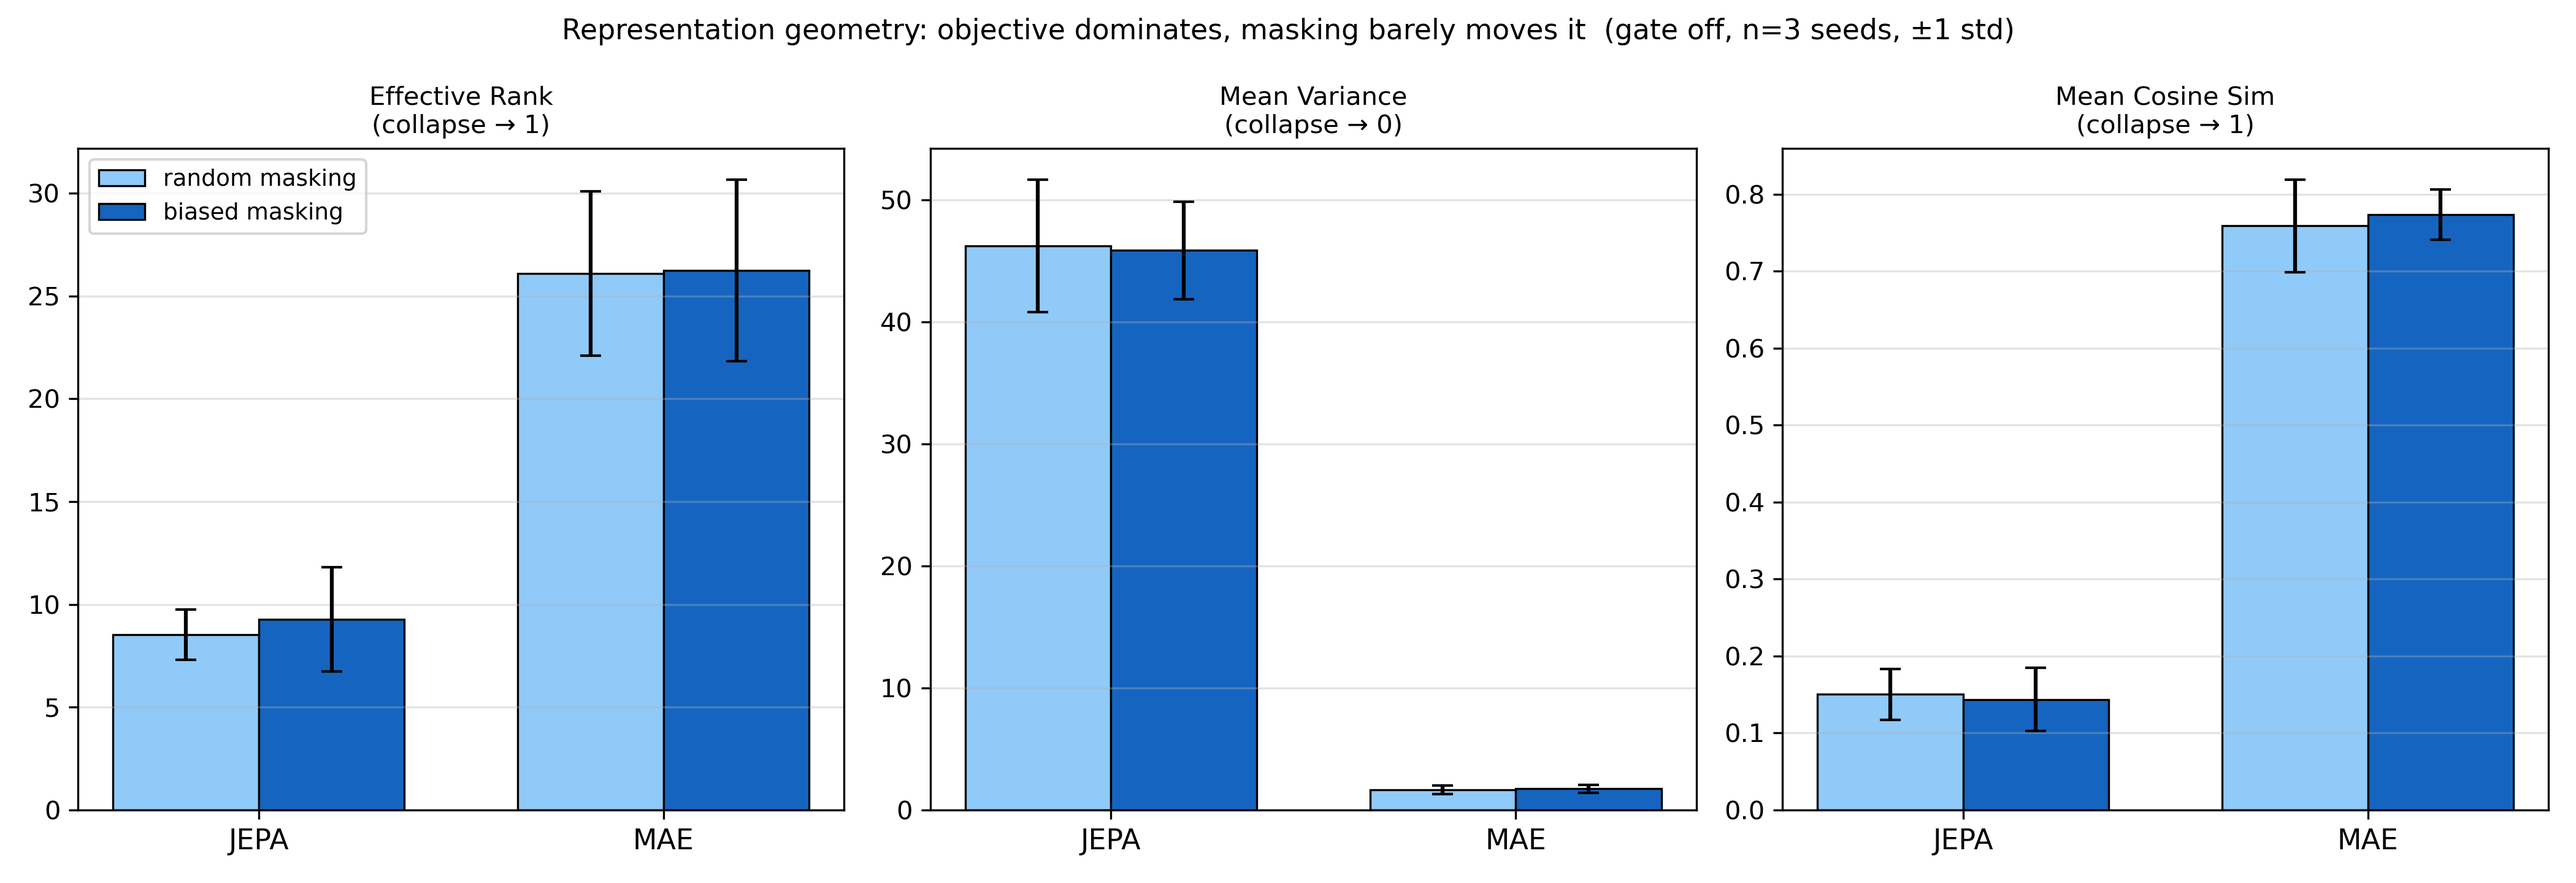
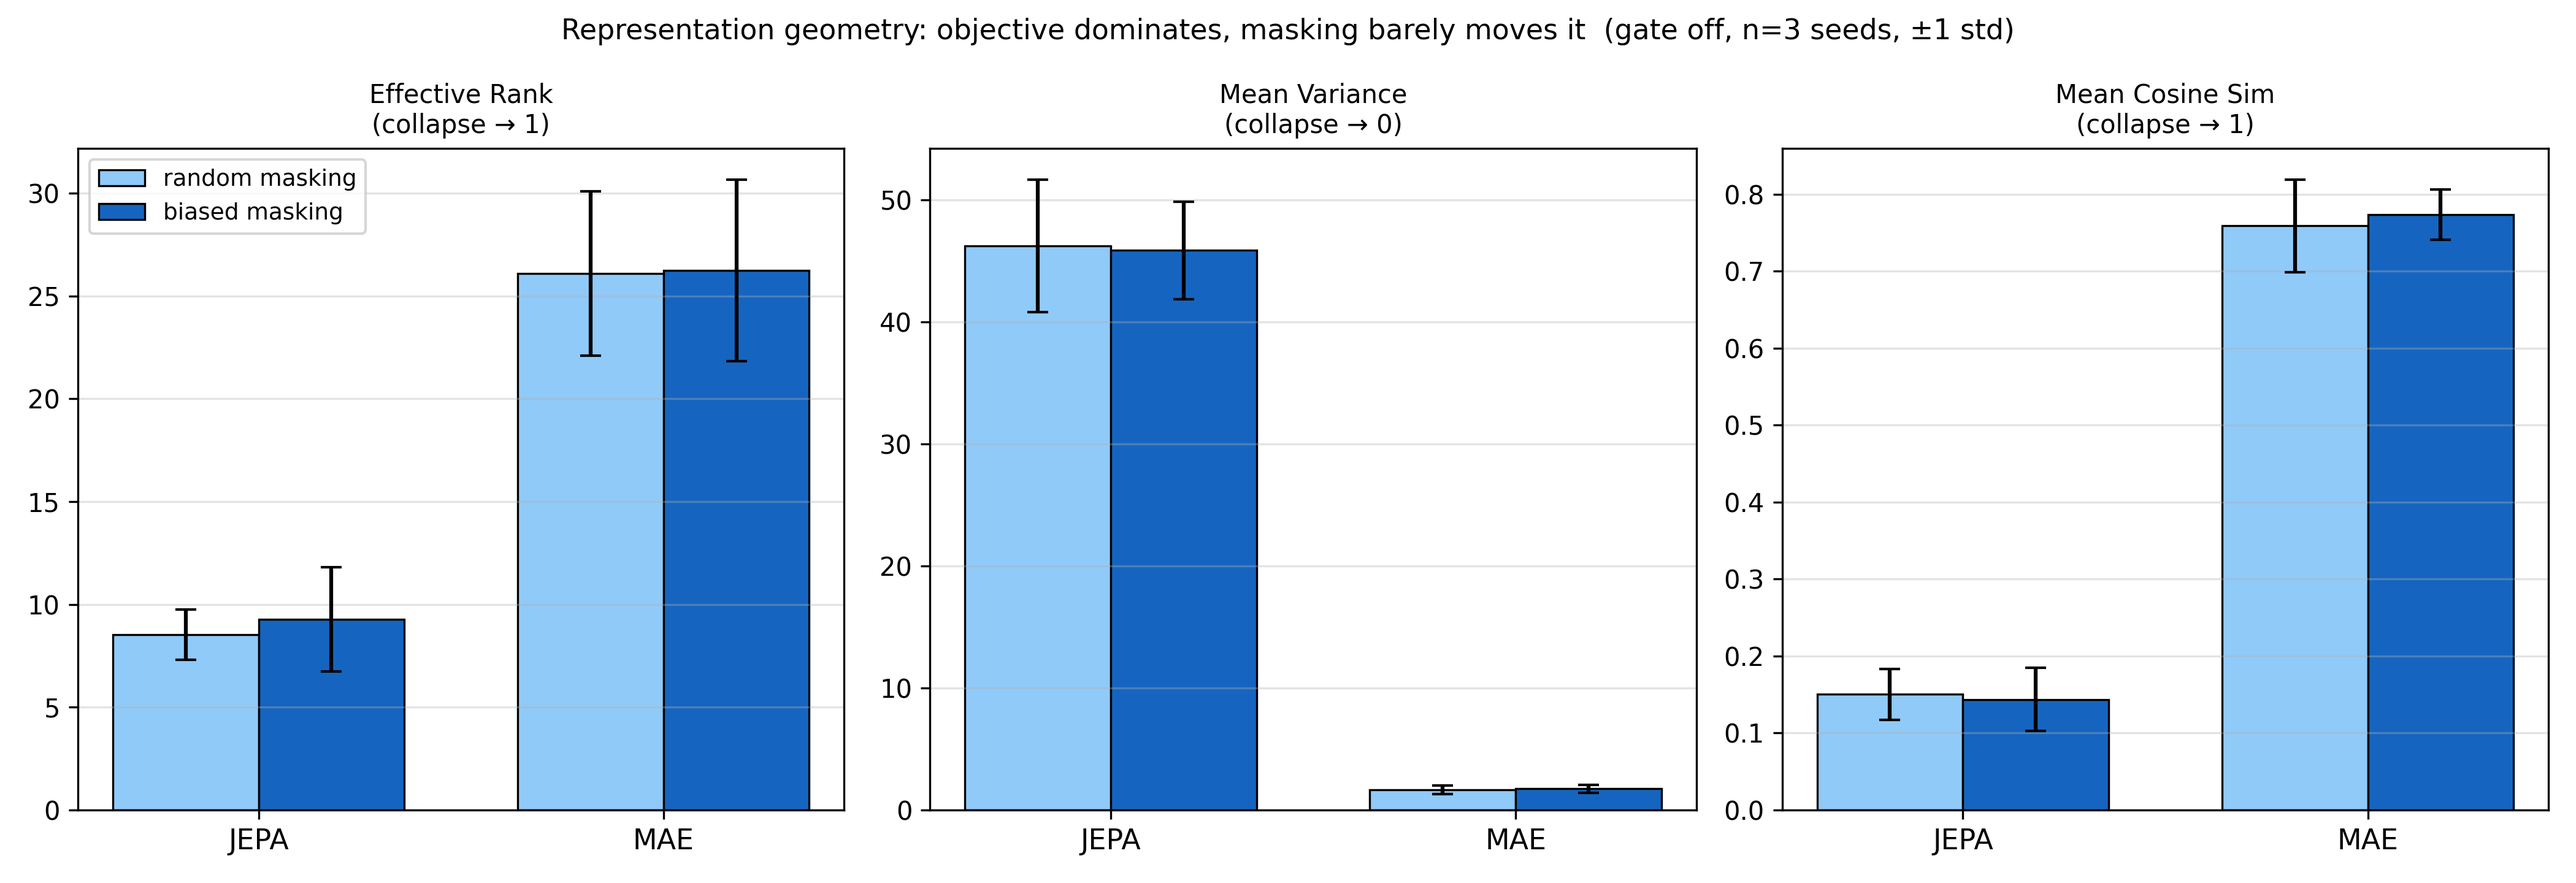
fix walltime comparison script

diff --git a/experiments/phase2/plot_walltime.py b/experiments/phase2/plot_walltime.py
@@ -25,7 +25,13 @@ Pretrain time comes from the seed JSONs (pretrain_time_s); finetune wall-clock
 comes from the finetune CSVs in logs/, so run this ON THE CLUSTER.
 
     python experiments/phase2/plot_walltime.py \\
-        --results-dir experiments/phase2/results --tag 1m --seeds 42 123 456
+        --results-dir experiments/phase2/results --tag 1m --seeds 42 123 456 \\
+        --jepa-encoder best      # charge JEPA only to its best-val epoch (~1h), not the full 4h
+
+--jepa-encoder final (default) charges JEPA the full pretrain and uses the final
+encoder's finetune; --jepa-encoder best uses the best-val encoder (pretrain timed
+to the val-loss minimum + --jepa-patience epochs, finetune = *_bestft_*). Output
+is walltime_convergence.png / walltime_convergence_bestval.png respectively.
 """
 
 import argparse
@@ -39,13 +45,46 @@ matplotlib.use('Agg')
 import matplotlib.pyplot as plt
 import numpy as np
 
-# (label, JSON condition key, finetune-CSV stem, colour). scratch's CSV has no
-# '_ft_' tag — matches run_phase2's naming.
-METHODS = [
-    ('JEPA',    'jepa_finetune', 'jepa_{tag}_ft_seed{s}',  '#1f77b4'),
+# Base (label, JSON condition key, finetune-CSV stem, colour) for MAE/scratch.
+# The JEPA row is built in main() so --jepa-encoder can switch it between the
+# final encoder and the (cheaper, ~equal-accuracy) best-val encoder.
+BASE_METHODS = [
     ('MAE',     'mae_finetune',  'mae_{tag}_ft_seed{s}',   '#2ca02c'),
     ('Scratch', 'scratch',       'scratch_{tag}_seed{s}',  '#ff7f0e'),
 ]
+
+
+def bestval_pretrain_seconds(pretrain_csv, patience):
+    """Elapsed_total_s at the val-loss minimum + `patience` epochs — the honest
+    stopping point for taking the best-val encoder (you must train a little past
+    the minimum to confirm it). JEPA pretrain CSV cols:
+    epoch,emb_loss,val_loss,lr,ema,epoch_t,elapsed,best."""
+    if not os.path.exists(pretrain_csv):
+        return None
+    rows = []
+    with open(pretrain_csv) as f:
+        for r in csv.reader(f):
+            try:
+                rows.append((int(float(r[0])), float(r[2]), float(r[6])))  # epoch, val_loss, elapsed
+            except (ValueError, IndexError):
+                continue
+    if not rows:
+        return None
+    best_ep = min(rows, key=lambda t: t[1])[0]
+    cand = [e for e in rows if e[0] >= best_ep + patience]
+    return (cand[0][2] if cand else rows[-1][2])
+
+
+def bestft_auc(diag_dir, seed):
+    """Best-val finetune OVO AUC from diag_bestft (roc_auc_ovo); None if absent."""
+    for name in (f'seed{seed}.json', f'seed_{seed}.json'):
+        p = os.path.join(diag_dir, name)
+        if os.path.exists(p):
+            try:
+                return float(json.load(open(p)).get('roc_auc_ovo'))
+            except Exception:
+                return None
+    return None
 
 
 def read_ft_csv(path):
@@ -83,9 +122,26 @@ def main():
     p.add_argument('--seeds',       nargs='+', type=int, default=[42, 123, 456])
     p.add_argument('--tag',         default='1m')
     p.add_argument('--output-dir',  default=None, help='defaults to --results-dir')
+    p.add_argument('--jepa-encoder', choices=['final', 'best'], default='final',
+                   help="'final': full-schedule encoder (pretrain = full run). "
+                        "'best': best-val encoder (pretrain charged only to the val-loss "
+                        "minimum + patience) — ~equal accuracy, far cheaper.")
+    p.add_argument('--jepa-pretrain-dir', default='./logs/ParticleJEPA/logging',
+                   help="JEPA pretrain CSVs (to time the best-val epoch).")
+    p.add_argument('--jepa-patience', type=int, default=5,
+                   help="epochs past the val-loss minimum to charge as pretrain "
+                        "for --jepa-encoder best (honest deployable stop).")
+    p.add_argument('--jepa-bestft-json', default='./experiments/phase2/diag_bestft',
+                   help="dir with best-val finetune JSONs (roc_auc_ovo) for the AUC label.")
     args = p.parse_args()
     out = args.output_dir or args.results_dir
     os.makedirs(out, exist_ok=True)
+
+    # JEPA row depends on the chosen encoder; best-val uses the *_bestft_* finetune.
+    jbest  = args.jepa_encoder == 'best'
+    jlabel = 'JEPA (best-val)' if jbest else 'JEPA'
+    jstem  = 'jepa_{tag}_bestft_seed{s}' if jbest else 'jepa_{tag}_ft_seed{s}'
+    METHODS = [(jlabel, 'jepa_finetune', jstem, '#1f77b4')] + BASE_METHODS
 
     agg = {m[0]: {'pre': [], 'ft': [], 'auc': []} for m in METHODS}
     ft_curves    = defaultdict(list)   # label -> [(finetune_hours, val_metric), ...]
@@ -101,6 +157,15 @@ def main():
             c = cond.get(key, {})
             pre = c.get('pretrain_time_s') or 0.0
             auc = c.get('test_auc')
+            if label == jlabel and jbest:                    # best-val JEPA: cheaper pretrain + its own AUC
+                bp = bestval_pretrain_seconds(
+                    os.path.join(args.jepa_pretrain_dir, f'jepa_{args.tag}_seed{s}.csv'),
+                    args.jepa_patience)
+                if bp is not None:
+                    pre = bp
+                ba = bestft_auc(args.jepa_bestft_json, s)
+                if ba is not None:
+                    auc = ba
             csvp = os.path.join(args.logs_dir, stem.format(tag=args.tag, s=s) + '.csv')
             if not os.path.exists(csvp):
                 print(f'[warn] missing finetune CSV {csvp}')
@@ -149,7 +214,7 @@ def main():
         ax.set_xlabel(xlabel)
         ax.legend(loc='lower right')
     # mark where each pretrained method begins finetuning on the total-clock panel
-    for label in ('JEPA', 'MAE'):
+    for label in (jlabel, 'MAE'):
         if pre_h[label] > 0:
             axR.axvline(pre_h[label], ls=':', color=colors[label], lw=1.2)
             axR.text(pre_h[label], axR.get_ylim()[0], f' {label} ft start',
@@ -157,8 +222,9 @@ def main():
     axL.set_ylabel('val metric (accuracy)')
     fig.suptitle('Time-to-accuracy: finetune-only vs. total (pretrain-charged) wall-clock', y=1.02)
     fig.tight_layout()
-    fig.savefig(os.path.join(out, 'walltime_convergence.png'), dpi=300, bbox_inches='tight')
-    print('wrote walltime_convergence.png')
+    fname = 'walltime_convergence_bestval.png' if jbest else 'walltime_convergence.png'
+    fig.savefig(os.path.join(out, fname), dpi=300, bbox_inches='tight')
+    print('wrote', fname)
 
     # ---- table ----
     print(f"\n{'method':10s}{'pretrain_h':>12s}{'finetune_h':>12s}{'total_h':>10s}{'auc':>9s}")

diff --git a/experiments/plot_masking_effect.py b/experiments/plot_masking_effect.py
@@ -97,7 +97,7 @@ def main():
     ax.set_xticklabels(GROUPS, fontsize=12)
     ax.set_ylabel('OVO ROC AUC', fontsize=11)
     ax.set_ylim(0.6, 0.85)
-    ax.set_title(f'Biased masking helps both objectives  (gate off, n={n} seeds, ±1 std)',
+    ax.set_title(f'Biased masking helps MAE, ~neutral for JEPA  (gate off, n={n} seeds, ±1 std)',
                  fontsize=11)
     ax.legend(fontsize=10)
     ax.grid(axis='y', alpha=0.35)
